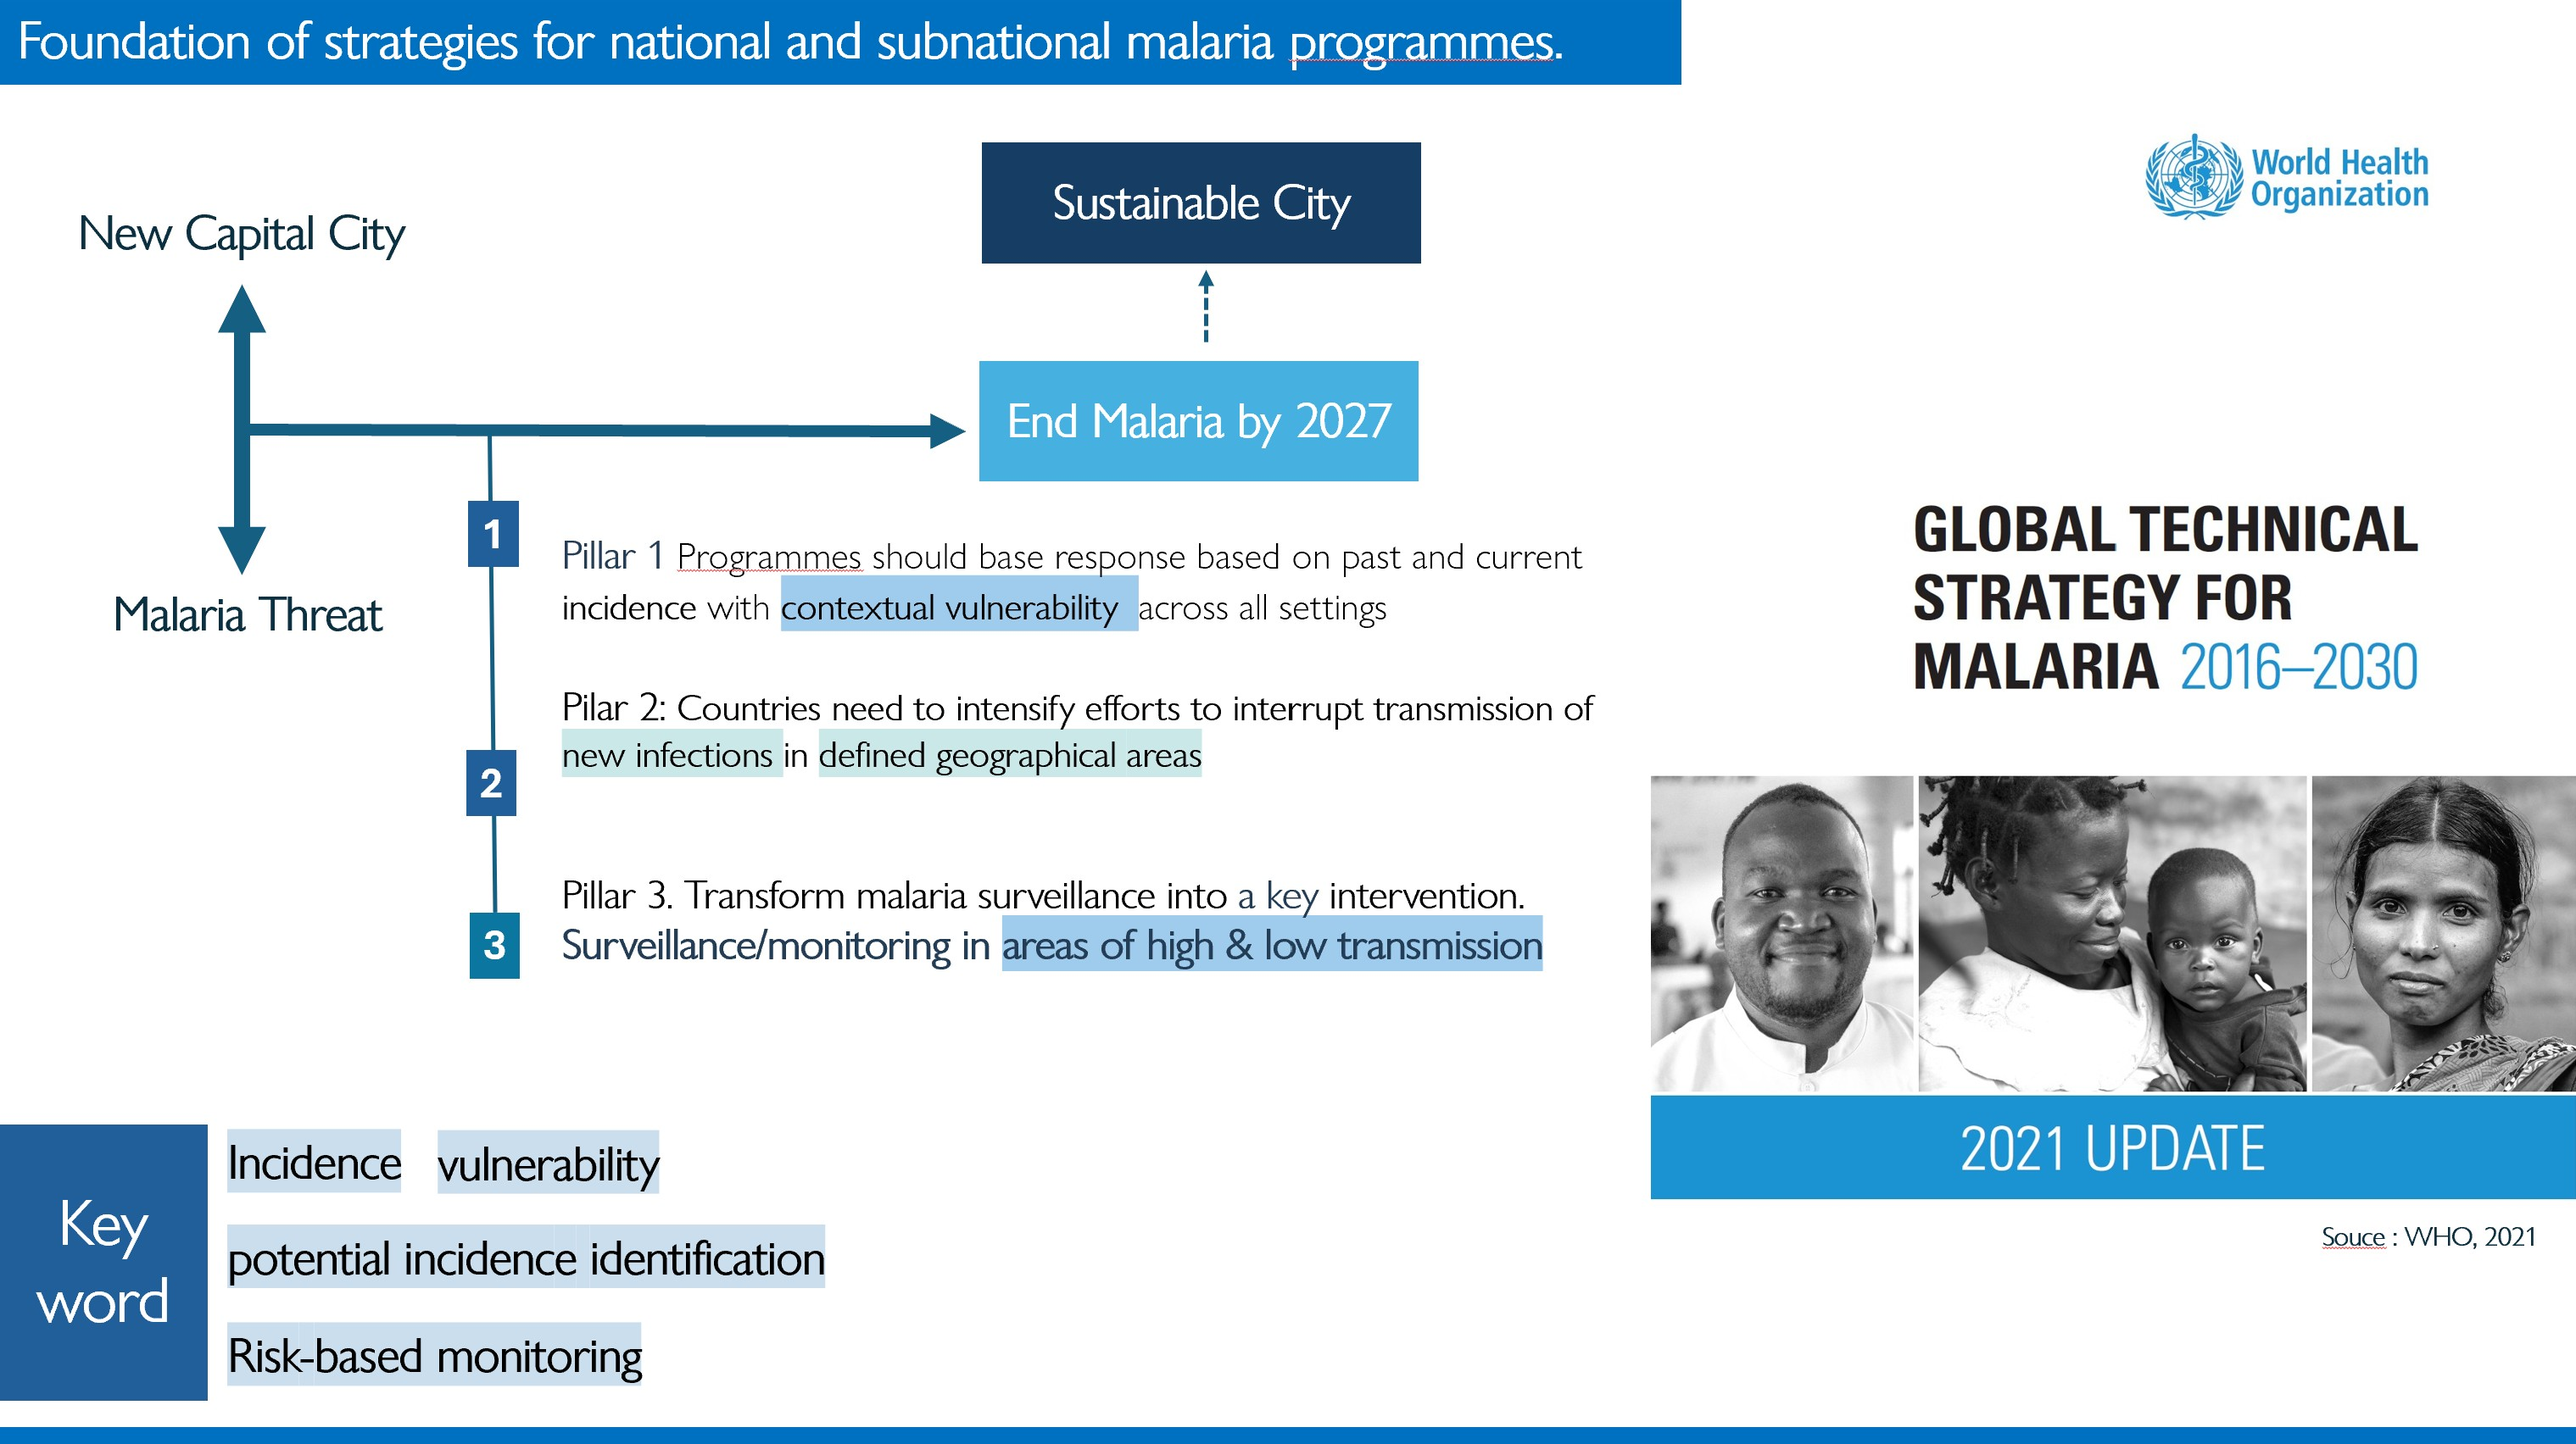
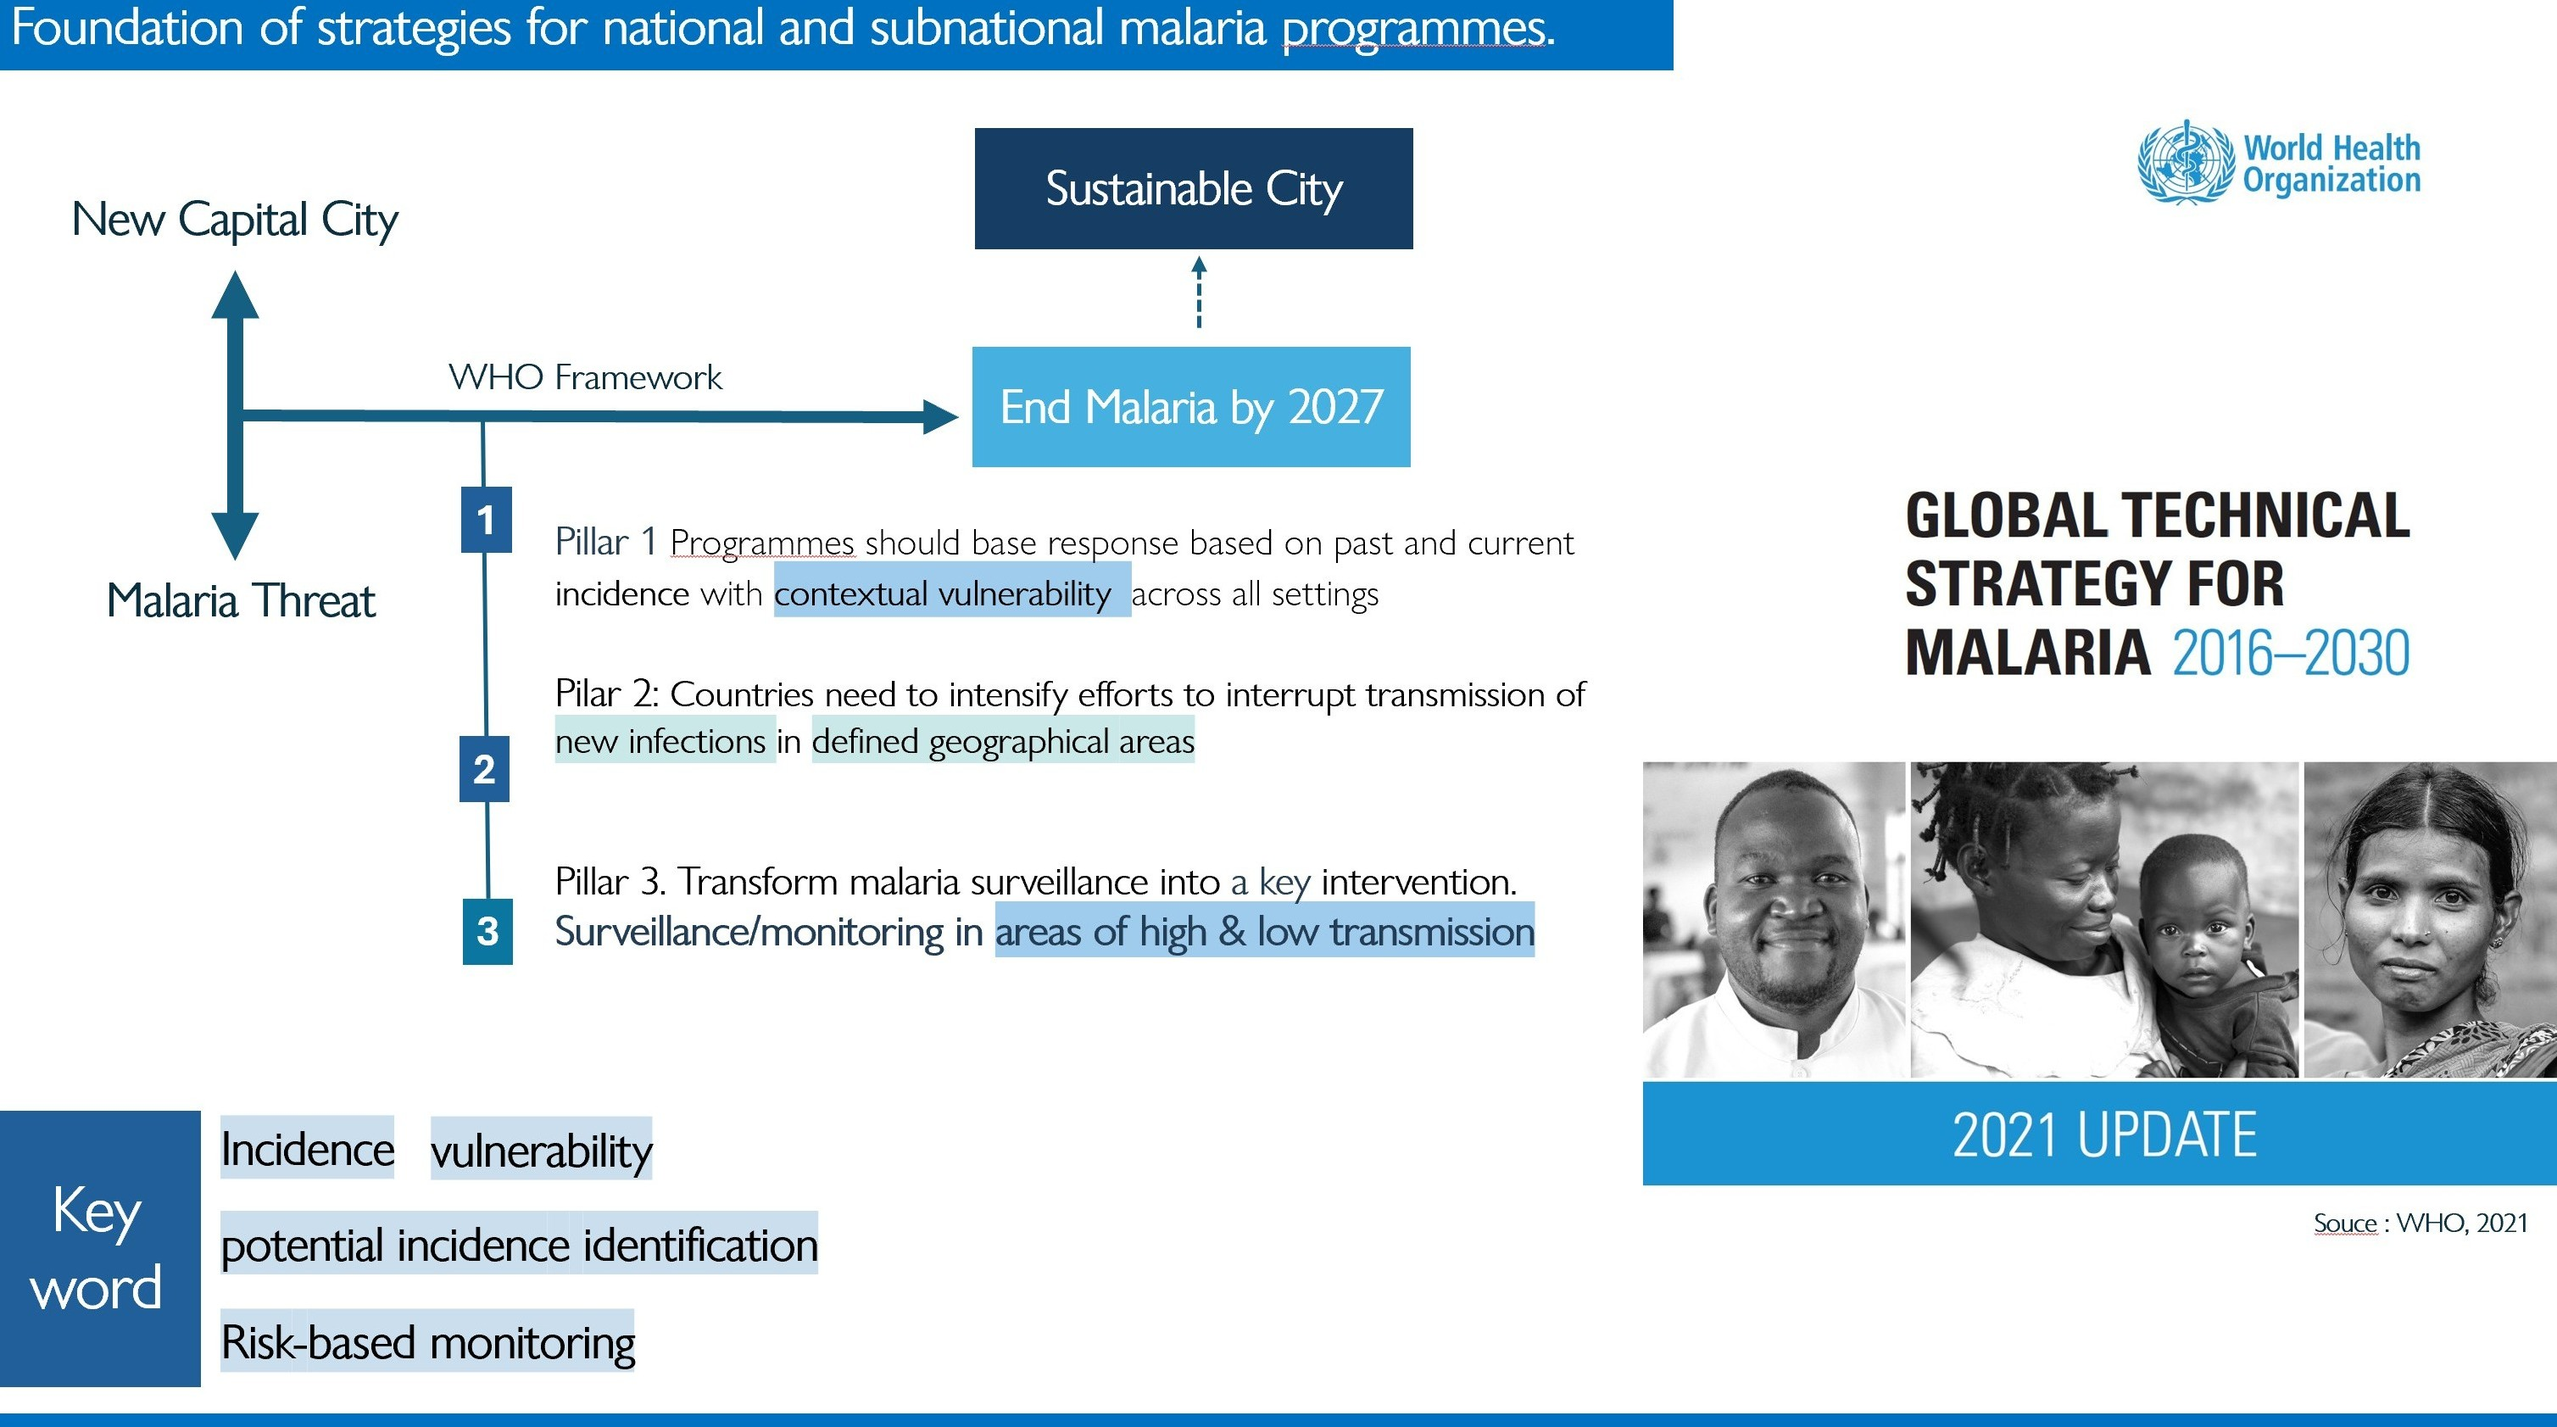
final check

diff --git a/index.html b/index.html
@@ -169,6 +169,7 @@ According to the **WHO’s World Malaria Report 2024:**
 * **Free-malaria area** : maintain malaria-free status &lt;/span&gt;&lt;/small&gt;
 
 ]
+
 .pull-right[
 &lt;img src="images/Picture6.png" style="width: 250px; height: auto;"&gt;
 &lt;figcaption style="text-align: center; font-size: 12px;"&gt;
@@ -177,23 +178,11 @@ According to the **WHO’s World Malaria Report 2024:**
 ]
 ]
 .panel[.panel-name[Tangible Action : WHO Framework]
-.pull-left[
+![](images/who.jpg)
 
-* &lt;span style="font-size: 90%; font-weight: bold;"&gt; Pillar 1 : Ensure access to malaria prevention, diagnosis and treatment as part of universal health coverage &lt;/span&gt; &lt;br&gt;
-&lt;small&gt;&lt;span style="font-size: 85%;"&gt;Countries should **collect data across all settings**, including those areas that are malaria-free but at risk of re-establishment of malaria&lt;/span&gt;&lt;/small&gt;
-
-
-* &lt;span style="font-size: 90%; font-weight: bold;"&gt;  Pillar 3. Transform malaria surveillance into a key intervention &lt;/span&gt; &lt;br&gt;
-&lt;small&gt;&lt;span style="font-size: 85%;"&gt;Surveillance in **areas of high &amp; low transmission** and in areas targeted for elimination &lt;/span&gt;&lt;/small&gt;
-]
-
-.pull-right[
-&lt;img src="images/who.jpg" style="width: 320px; height: auto;"&gt;
 ]
 ]
 
-
-]
 ---
 ## Framework
 
@@ -425,7 +414,7 @@ SISMAL (Sistem Informasi Malaria) is the, currently system for monitoring malari
 
 &lt;p&gt;Parselia, E. et al. (2019) ‘Satellite Earth Observation Data in Epidemiological Modeling of Malaria, Dengue and West Nile Virus: A Scoping Review’, Remote Sensing, 11(16), p. 1862. Available at: https://doi.org/10.3390/rs11161862.&lt;/p&gt;
 
-&lt;p&gt; Regulation of The Governor of East Kalimantan Number 58 Of 2023 OnGuidelines For Malaria Elimination Implementation &lt;/p&gt;
+&lt;p&gt; Regulation of The Governor of East Kalimantan Number 58 Of 2023 On Guidelines For Malaria Elimination Implementation &lt;/p&gt;
 
 &lt;p&gt;Sarma, N., Patouillard, E., Cibulskis, R. E., &amp; Arcand, J.-L. (2019). The economic burden of Malaria: Revisiting the evidence. The American Journal of Tropical Medicine and Hygiene, 101(6), 1405–1415. https://doi.org/10.4269/ajtmh.19-0386&lt;/p&gt;
 
@@ -434,7 +423,8 @@ SISMAL (Sistem Informasi Malaria) is the, currently system for monitoring malari
 &lt;p&gt;The Jakarta Post (2020). New capital city development requires 300,000 construction workers. Available from: https://www.thejakartapost.com/news/2020/02/26/new-capital-city-development-requires-300000-construction-workers.html&lt;/p&gt;
 
 &lt;p&gt;World Health Organization (WHO). (2024). World malaria report 2024. Available from: https://www.who.int/teams/global-malaria-programme/reports/world-malaria-report-2024 &lt;/p&gt;
-&lt;/div&gt;
+
+&lt;p&gt;World Health Organization (2021) Global technical strategy for malaria 2016–2030, 2021 update. Geneva: WHO. Available at: https://www.who.int/publications/i/item/9789240031357. &lt;/p&gt;&lt;/div&gt;
 
 
 
